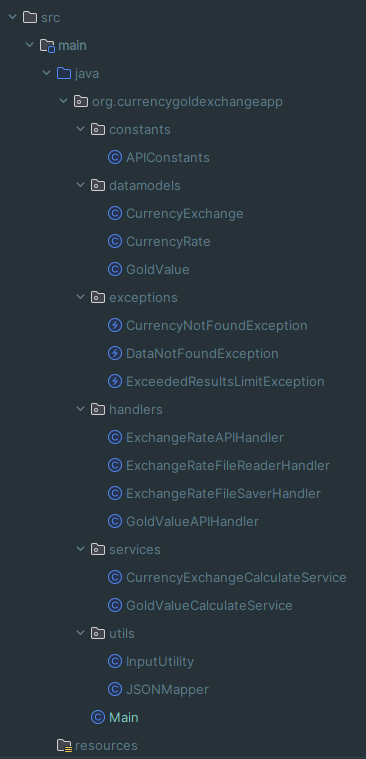
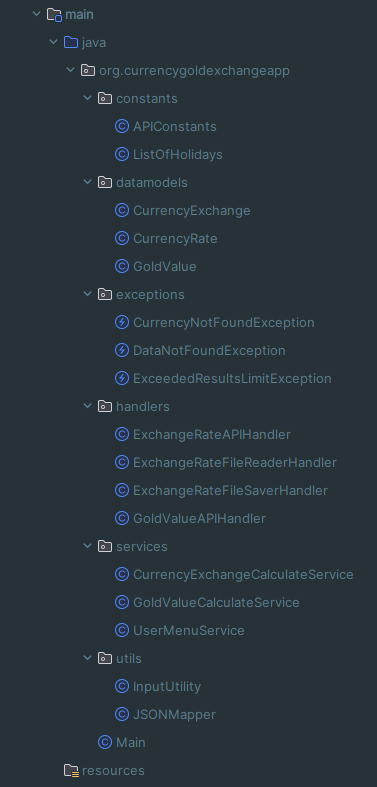
[Update] Added methods: getUserInputForCurrency and getDateForGold in InputUtility class. Whole logic responsible for user interactions has been moved to the UserMenuService class. The main class is responsible only for running the program.

diff --git a/src/main/java/org/currencygoldexchangeapp/services/UserMenuService.java b/src/main/java/org/currencygoldexchangeapp/services/UserMenuService.java
@@ -1,0 +1,177 @@
+package org.currencygoldexchangeapp.services;
+
+import org.currencygoldexchangeapp.datamodels.CurrencyExchange;
+import org.currencygoldexchangeapp.datamodels.GoldValue;
+import org.currencygoldexchangeapp.exceptions.CurrencyNotFoundException;
+import org.currencygoldexchangeapp.exceptions.DataNotFoundException;
+import org.currencygoldexchangeapp.handlers.ExchangeRateAPIHandler;
+import org.currencygoldexchangeapp.handlers.ExchangeRateFileReaderHandler;
+import org.currencygoldexchangeapp.handlers.ExchangeRateFileSaverHandler;
+import org.currencygoldexchangeapp.handlers.GoldValueAPIHandler;
+import org.currencygoldexchangeapp.utils.InputUtility;
+
+import java.io.IOException;
+import java.math.BigDecimal;
+import java.net.http.HttpClient;
+import java.nio.file.Path;
+import java.time.LocalDate;
+import java.time.format.DateTimeParseException;
+import java.util.Map;
+import java.util.Optional;
+import java.util.Scanner;
+
+public class UserMenuService {
+    private final Scanner scanner = new Scanner(System.in);
+    private final ExchangeRateFileReaderHandler exchangeRateFileReaderHandler;
+    private final ExchangeRateFileSaverHandler exchangeRateFileSaverHandler;
+    private final GoldValueAPIHandler goldValueAPIHandler;
+    private final CurrencyExchangeCalculateService currencyExchangeCalculateService;
+    private final GoldValueCalculateService goldValueCalculateService;
+
+    public UserMenuService() {
+        ExchangeRateAPIHandler exchangeRateAPIHandler = new ExchangeRateAPIHandler(HttpClient.newHttpClient());
+        this.currencyExchangeCalculateService = new CurrencyExchangeCalculateService(exchangeRateAPIHandler);
+        this.exchangeRateFileReaderHandler = new ExchangeRateFileReaderHandler(currencyExchangeCalculateService);
+        this.exchangeRateFileSaverHandler = new ExchangeRateFileSaverHandler();
+        this.goldValueAPIHandler = new GoldValueAPIHandler(HttpClient.newHttpClient());
+        this.goldValueCalculateService = new GoldValueCalculateService(goldValueAPIHandler);
+    }
+
+    public void runApplication() {
+        int choice = 0;
+        while (choice != 5) {
+            System.out.println();
+            displayMenu();
+            choice = getUserChoice();
+            System.out.println();
+            handleUserChoice(choice);
+        }
+    }
+
+    private void displayMenu() {
+        System.out.println("1. Currency exchange prices for a specific date.");
+        System.out.println("2. Load data from a file and calculate currency exchange prices.");
+        System.out.println("3. Gold price for a specific date.");
+        System.out.println("4. Compare today's gold price with the best price from the last month/year.");
+        System.out.println("5. Close the application");
+    }
+
+    private int getUserChoice() {
+        System.out.print("Please enter your choice: ");
+        String input = scanner.nextLine();
+        try {
+            return Integer.parseInt(input);
+        } catch (NumberFormatException e) {
+            System.out.println("Conversion error: " + e.getMessage());
+            return  -1;
+        }
+    }
+
+    private void handleUserChoice(int choice) {
+        switch (choice) {
+            case 1:
+                displaySingleCurrencyExchange(currencyExchangeCalculateService, exchangeRateFileSaverHandler);
+                break;
+            case 2:
+                displayResultsFromFile(exchangeRateFileReaderHandler);
+                break;
+            case 3:
+                displaySingleGoldValue(goldValueAPIHandler);
+                break;
+            case 4:
+                displayComparisonForGoldValue(goldValueCalculateService);
+                break;
+            case 5:
+                System.out.println("Have a nice day. Closing the program...");
+                break;
+            default:
+                System.out.println("Invalid choice. Please try again.");
+        }
+    }
+
+    private void displaySingleCurrencyExchange(CurrencyExchangeCalculateService currencyExchangeCalculateService, ExchangeRateFileSaverHandler exchangeRateFileSaverHandler) {
+        LocalDate date = InputUtility.getDateForCurrencies(scanner);
+        String sourceCurrencyCode = InputUtility.getUserInputForCurrency(scanner, "Enter source currency code: ", date.toString(), true);
+        String targetCurrencyCode = InputUtility.getUserInputForCurrency(scanner, "Enter target currency code (press ENTER for PLN currency): ", date.toString(), false);
+        if(targetCurrencyCode.isEmpty()) {
+            targetCurrencyCode = "PLN";
+        }
+        double amount = InputUtility.getCustomAmount(scanner);
+
+        try {
+            CurrencyExchange result = currencyExchangeCalculateService.calculateExchangeAmount(sourceCurrencyCode, amount, targetCurrencyCode, date.toString());
+            System.out.println("Result of currency exchange: " + sourceCurrencyCode + " " + amount + " " + targetCurrencyCode + " " + date + ": " + result);
+
+            boolean resultToCSV = exchangeRateFileSaverHandler.saveResultToCSV(Path.of("savedFiles"), sourceCurrencyCode, amount, targetCurrencyCode, date, result);
+            if (resultToCSV) {
+                System.out.println("Results saved to CSV file successfully.");
+            }
+
+        } catch (DataNotFoundException e) {
+            System.out.println(e.getMessage());
+        } catch (CurrencyNotFoundException e) {
+            System.out.println("Invalid currency code entered: " + e.getMessage());
+        } catch (DateTimeParseException e) {
+            System.out.println("Invalid date entered. Correct format is yyyy-MM-dd");
+        }
+    }
+
+    private void displayResultsFromFile(ExchangeRateFileReaderHandler exchangeRateFileReaderHandler) {
+        try {
+            System.out.print("Enter the file path: ");
+            String filePath = scanner.nextLine();
+
+            Map<String, Double> exchangeRates = exchangeRateFileReaderHandler.readExchangeRates(filePath);
+
+            if (!exchangeRates.isEmpty()) {
+                System.out.println("Results based on data from the file:");
+                for (Map.Entry<String, Double> entry : exchangeRates.entrySet()) {
+                    if (entry.getValue() != 0.0) {
+                        System.out.println(entry.getKey() + ": " + entry.getValue());
+                    }
+                }
+            }
+
+            System.out.println();
+
+            if (!exchangeRateFileReaderHandler.getErrorMessages().isEmpty()) {
+                System.out.println("Errors encountered while processing the file:");
+                for (String errorMessage : exchangeRateFileReaderHandler.getErrorMessages()) {
+                    System.out.println(errorMessage);
+                }
+            }
+        } catch (IOException e) {
+            System.err.println("An error occurred while reading exchange rates from the CSV file: " + e.getMessage());
+        }
+    }
+
+    private void displaySingleGoldValue(GoldValueAPIHandler goldValueAPIHandler) {
+        LocalDate goldDate = InputUtility.getDateForGold(scanner);
+
+        GoldValue goldValue = goldValueAPIHandler.getGoldValueForSpecificDate(goldDate.toString());
+
+        System.out.println("Value of gold on " + goldDate + ": " + goldValue.getValue() + " Pln/Gram");
+    }
+
+    private void displayComparisonForGoldValue(GoldValueCalculateService goldValueCalculateService) {
+
+        String endDate = LocalDate.now().toString();
+        String startDateMonthly = LocalDate.of(LocalDate.now().getYear(), LocalDate.now().getMonth(), 1).toString();
+        String startDateYearly = LocalDate.now().minusYears(1).toString();
+
+        Optional<BigDecimal> gainOrLossMonthly = goldValueCalculateService.calculateGainOrLoss(startDateMonthly, endDate);
+        Optional<BigDecimal> gainOrLossYearly = goldValueCalculateService.calculateGainOrLoss(startDateYearly, endDate);
+
+        if(gainOrLossMonthly.isPresent()) {
+            System.out.println("Today's gold price compared to the best price this month: " + gainOrLossMonthly.get() + " PLN");
+        } else {
+            System.out.println("No results for this date range. No comparison for monthly results.");
+        }
+
+        if(gainOrLossYearly.isPresent()) {
+            System.out.println("Today's gold price compared to the best price this year: " + gainOrLossYearly.get() + " PLN");
+        } else {
+            System.out.println("No results for this date range. No comparison for yearly results.");
+        }
+    }
+}

diff --git a/src/main/java/org/currencygoldexchangeapp/Main.java b/src/main/java/org/currencygoldexchangeapp/Main.java
@@ -1,126 +1,10 @@
 package org.currencygoldexchangeapp;
 
-import org.currencygoldexchangeapp.datamodels.CurrencyExchange;
-import org.currencygoldexchangeapp.datamodels.GoldValue;
-import org.currencygoldexchangeapp.exceptions.CurrencyNotFoundException;
-import org.currencygoldexchangeapp.exceptions.DataNotFoundException;
-import org.currencygoldexchangeapp.handlers.ExchangeRateAPIHandler;
-import org.currencygoldexchangeapp.handlers.ExchangeRateFileReaderHandler;
-import org.currencygoldexchangeapp.handlers.ExchangeRateFileSaverHandler;
-import org.currencygoldexchangeapp.handlers.GoldValueAPIHandler;
-import org.currencygoldexchangeapp.services.CurrencyExchangeCalculateService;
-import org.currencygoldexchangeapp.utils.InputUtility;
-
-import java.io.IOException;
-import java.net.http.HttpClient;
-import java.nio.file.Path;
-import java.time.LocalDate;
-import java.time.format.DateTimeParseException;
-import java.util.Map;
-import java.util.Scanner;
+import org.currencygoldexchangeapp.services.UserMenuService;
 
 public class Main {
     public static void main(String[] args) {
-        Scanner scanner = new Scanner(System.in);
-        System.out.println("Choose an option:");
-        System.out.println("1. Enter data manually");
-        System.out.println("2. Load data from a file");
-        System.out.println("3. Check gold price");
-
-
-        String input = scanner.nextLine();
-        int option;
-        try {
-            option = Integer.parseInt(input);
-        } catch (NumberFormatException e) {
-            System.out.println("Conversion error: " + e.getMessage());
-            option = -1;
-        }
-
-        ExchangeRateAPIHandler exchangeRateAPIHandler = new ExchangeRateAPIHandler(HttpClient.newHttpClient());
-        CurrencyExchangeCalculateService currencyExchangeCalculateService = new CurrencyExchangeCalculateService(exchangeRateAPIHandler);
-
-        if (option == 1) {
-            LocalDate date = InputUtility.getDate(scanner);
-            String sourceCurrencyCode = getUserInput(scanner, "Enter source currency code: ", date.toString(), true);
-            String targetCurrencyCode = getUserInput(scanner, "Enter target currency code (press ENTER for PLN currency): ", date.toString(), false);
-            if(targetCurrencyCode.isEmpty()) {
-                targetCurrencyCode = "PLN";
-            }
-            double amount = InputUtility.getCustomAmount(scanner);
-
-            currencyExchangeCalculateService = new CurrencyExchangeCalculateService(exchangeRateAPIHandler);
-
-            try {
-                CurrencyExchange result = currencyExchangeCalculateService.calculateExchangeAmount(sourceCurrencyCode, amount, targetCurrencyCode, date.toString());
-                System.out.println("Result of currency exchange: " + sourceCurrencyCode + " " + amount + " " + targetCurrencyCode + " " + date + ": " + result);
-
-                ExchangeRateFileSaverHandler exchangeRateFileSaverHandler = new ExchangeRateFileSaverHandler();
-
-                boolean resultToCSV = exchangeRateFileSaverHandler.saveResultToCSV(Path.of("savedFiles"), sourceCurrencyCode, amount, targetCurrencyCode, date, result);
-                if (resultToCSV) {
-                    System.out.println("Results saved to CSV file successfully.");
-                }
-
-            } catch (DataNotFoundException e) {
-                System.out.println(e.getMessage());
-            } catch (CurrencyNotFoundException e) {
-                System.out.println("Invalid currency code entered: " + e.getMessage());
-            } catch (DateTimeParseException e) {
-                System.out.println("Invalid date entered. Correct format is yyyy-MM-dd");
-            }
-        } else if (option == 2) {
-            System.out.print("Enter the file path: ");
-            String filePath = scanner.nextLine();
-
-            displayResultsFromFile(filePath, currencyExchangeCalculateService);
-        } else if (option == 3) {
-            LocalDate goldDate = InputUtility.getDate(scanner);
-
-            GoldValueAPIHandler goldValueAPIHandler = new GoldValueAPIHandler(HttpClient.newHttpClient());
-            GoldValue goldValue = goldValueAPIHandler.getGoldValueForSpecificDate(goldDate.toString());
-
-            System.out.println("Gold value on " + goldDate + ": " + goldValue.getValue());
-        } else {
-            System.out.println("Invalid option. Closing the program...");
-        }
-    }
-
-    private static String getUserInput(Scanner scanner, String message, String date, boolean isSourceCurrency) {
-        String currencyCode;
-        do {
-            System.out.print(message);
-            currencyCode = scanner.nextLine().toUpperCase();
-
-            if ("PLN".equalsIgnoreCase(currencyCode) && !isSourceCurrency) {
-                return currencyCode;
-            }
-        } while ((!currencyCode.isEmpty() && !InputUtility.isCurrencyAvailable(currencyCode, date)) || (isSourceCurrency && currencyCode.isEmpty()));
-        return currencyCode;
-    }
-
-    private static void displayResultsFromFile(String filePath, CurrencyExchangeCalculateService currencyExchangeCalculateService) {
-        try {
-            ExchangeRateFileReaderHandler fileHandler = new ExchangeRateFileReaderHandler(currencyExchangeCalculateService);
-            Map<String, Double> exchangeRates = fileHandler.readExchangeRates(filePath);
-
-            if (!exchangeRates.isEmpty()) {
-                System.out.println("Results based on data from the file:");
-                for (Map.Entry<String, Double> entry : exchangeRates.entrySet()) {
-                    if (entry.getValue() != 0.0) {
-                        System.out.println(entry.getKey() + ": " + entry.getValue());
-                    }
-                }
-            }
-
-            if (!fileHandler.getErrorMessages().isEmpty()) {
-                System.out.println("Errors encountered while processing the file:");
-                for (String errorMessage : fileHandler.getErrorMessages()) {
-                    System.out.println(errorMessage);
-                }
-            }
-        } catch (IOException e) {
-            System.err.println("An error occurred while reading exchange rates from the CSV file: " + e.getMessage());
-        }
+        UserMenuService userMenuService = new UserMenuService();
+        userMenuService.runApplication();
     }
 }

diff --git a/src/main/java/org/currencygoldexchangeapp/utils/InputUtility.java b/src/main/java/org/currencygoldexchangeapp/utils/InputUtility.java
@@ -8,6 +8,19 @@ import java.util.List;
 import java.util.Scanner;
 
 public class InputUtility {
+    public static String getUserInputForCurrency(Scanner scanner, String message, String date, boolean isSourceCurrency) {
+        String currencyCode;
+        do {
+            System.out.print(message);
+            currencyCode = scanner.nextLine().toUpperCase();
+
+            if ("PLN".equalsIgnoreCase(currencyCode) && !isSourceCurrency) {
+                return currencyCode;
+            }
+        } while ((!currencyCode.isEmpty() && !InputUtility.isCurrencyAvailable(currencyCode, date)) || (isSourceCurrency && currencyCode.isEmpty()));
+        return currencyCode;
+    }
+
     public static boolean isCurrencyAvailable(String currency, String date) {
         List<String> codeCurrencyAvailableFor2011AndLater = Arrays.asList("USD", "AUD", "CAD", "EUR", "HUF", "CHF", "GBP", "JPY", "CZK", "DKK", "NOK", "SEK", "XDR");
         List<String> codeCurrencyAvailableFor2010AndBefore = Arrays.asList("USD", "AUD", "CAD", "EUR", "HUF", "CHF", "GBP", "JPY", "CZK", "DKK", "EEK", "NOK", "SEK", "XDR");
@@ -30,7 +43,7 @@ public class InputUtility {
                 .contains(currency.toLowerCase());
     }
 
-    public static LocalDate getDate(Scanner scanner) {
+    public static LocalDate getDateForCurrencies(Scanner scanner) {
         LocalDate date = null;
         LocalDate today = LocalDate.now();
 
@@ -44,13 +57,44 @@ public class InputUtility {
                 } else {
                     date = LocalDate.parse(dateString);
 
-                    LocalDate minDate = LocalDate.of(2003, 1, 1);
+                    LocalDate minDate = LocalDate.of(2003, 1, 2);
 
                     if (date.isAfter(today)) {
-                        System.out.println("Entered date is greater than today's date. Please enter a date within the range from 2003-01-01 to " + today + ".");
+                        System.out.println("Entered date is greater than today's date. Please enter a date within the range from 2003-01-02 to " + today + ".");
                         date = null;
                     } else if (date.isBefore(minDate)) {
-                        System.out.println("Entered date is earlier than the supported date range. Please enter a date within the range from 2003-01-01 to " + today + ".");
+                        System.out.println("Entered date is earlier than the supported date range. Please enter a date within the range from 2003-01-02 to " + today + ".");
+                        date = null;
+                    }
+                }
+            } catch (DateTimeParseException e) {
+                System.out.println("Invalid date format. Please enter a valid date in the format yyyy-MM-dd");
+            }
+        }
+        return date;
+    }
+
+    public static LocalDate getDateForGold(Scanner scanner) {
+        LocalDate date = null;
+        LocalDate today = LocalDate.now();
+
+        while (date == null) {
+            System.out.print("Please enter a date within the range from 2013-01-02 to " + today + " (optional, press ENTER for today's date): ");
+            String dateString = scanner.nextLine();
+
+            try {
+                if (dateString.isEmpty()) {
+                    date = LocalDate.now();
+                } else {
+                    date = LocalDate.parse(dateString);
+
+                    LocalDate minDate = LocalDate.of(2013, 1, 2);
+
+                    if (date.isAfter(today)) {
+                        System.out.println("Entered date is greater than today's date. Please enter a date within the range from 2013-01-02 to " + today + ".");
+                        date = null;
+                    } else if (date.isBefore(minDate)) {
+                        System.out.println("Entered date is earlier than the supported date range. Please enter a date within the range from 2013-01-02 to " + today + ".");
                         date = null;
                     }
                 }

diff --git a/README.md b/README.md
@@ -5,7 +5,6 @@
 2. Application Features
 3. How to Run the Application
 4. Testing
-5. License
 
 ## Project Description
 CurrencyGoldExchangeApp is a Java application for managing information related to currency exchange rates and gold prices. The project includes various features, such as retrieving current currency exchange rates, calculating currency values, analyzing gold prices, and saving transaction information.
